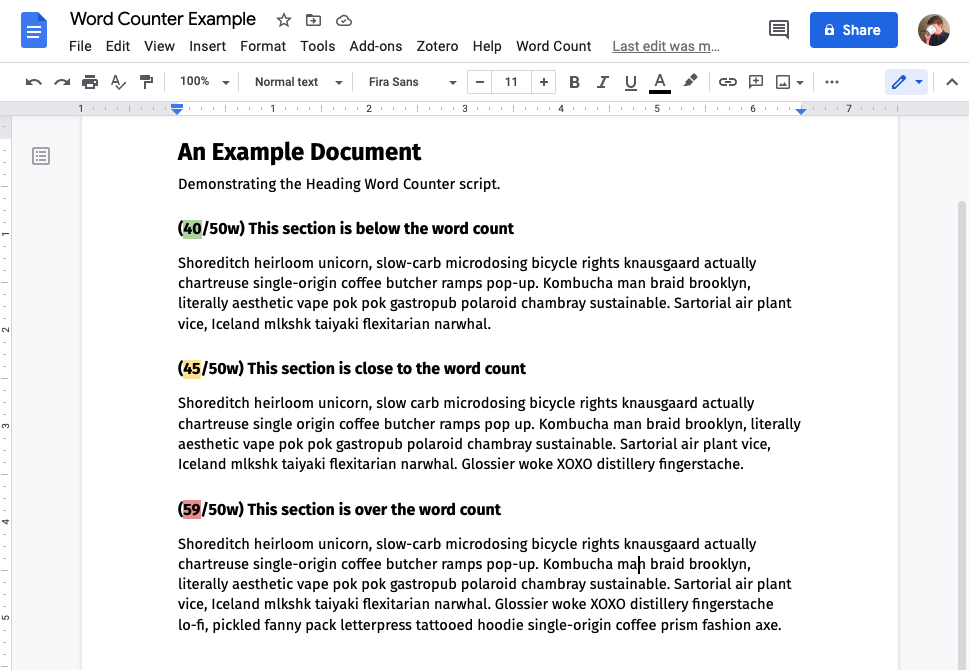
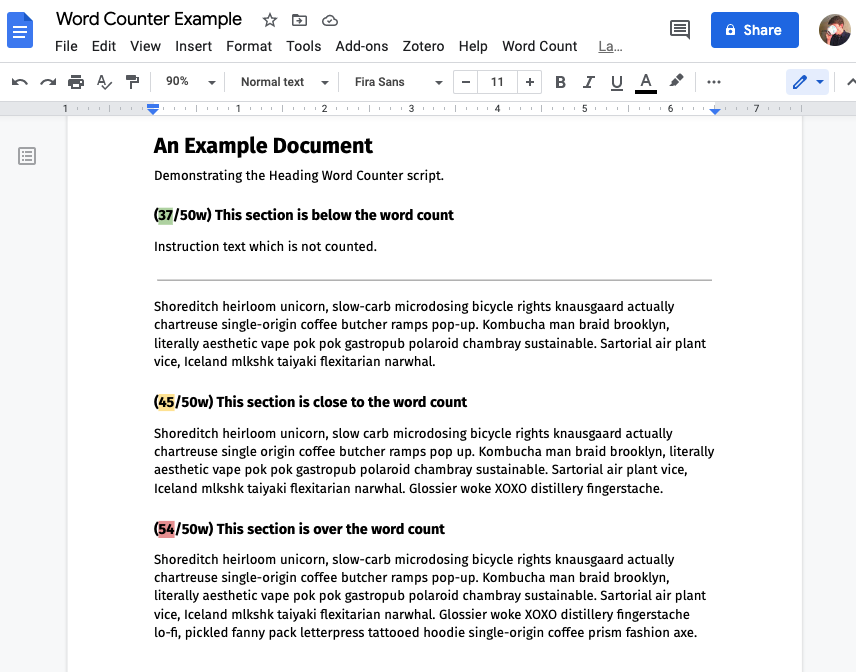
adding horizontal rule feature and updating example image

diff --git a/readme.md b/readme.md
@@ -70,8 +70,6 @@ This permission is required by a trigger that runs every minute to update your w
 
 * Check that the script correctly handles all of the content types allowable in Google Docs (e.g. tables, formulas); add and test error handling.
 
-* Add a feature to reset the running count after Horizontal Line objects to allow for instruction text to come after a heading but not be counted.
-
 * Improve triggers (stop time trigger when document is closed; explore using [`Files: watch`](https://developers.google.com/drive/api/v3/reference/files/watch) to approximate onEdit trigger available in Google Sheets).
 
 * Allow customizable syntax for word limit, improve text handling, and add options for character counts in addition to word counts.
